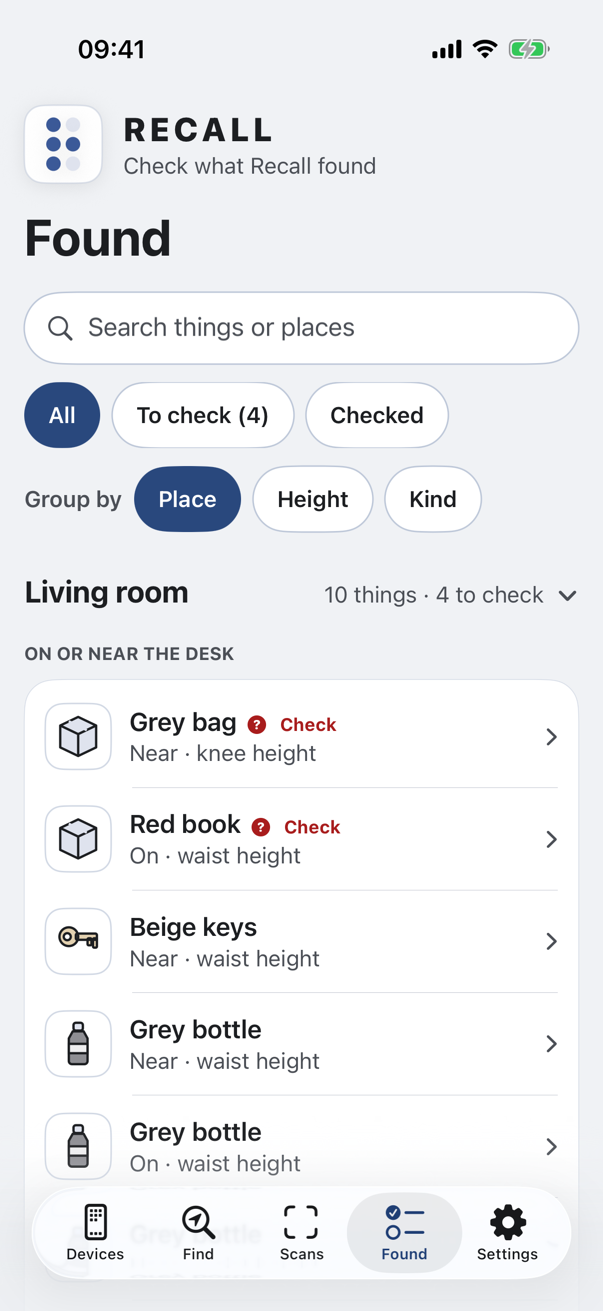
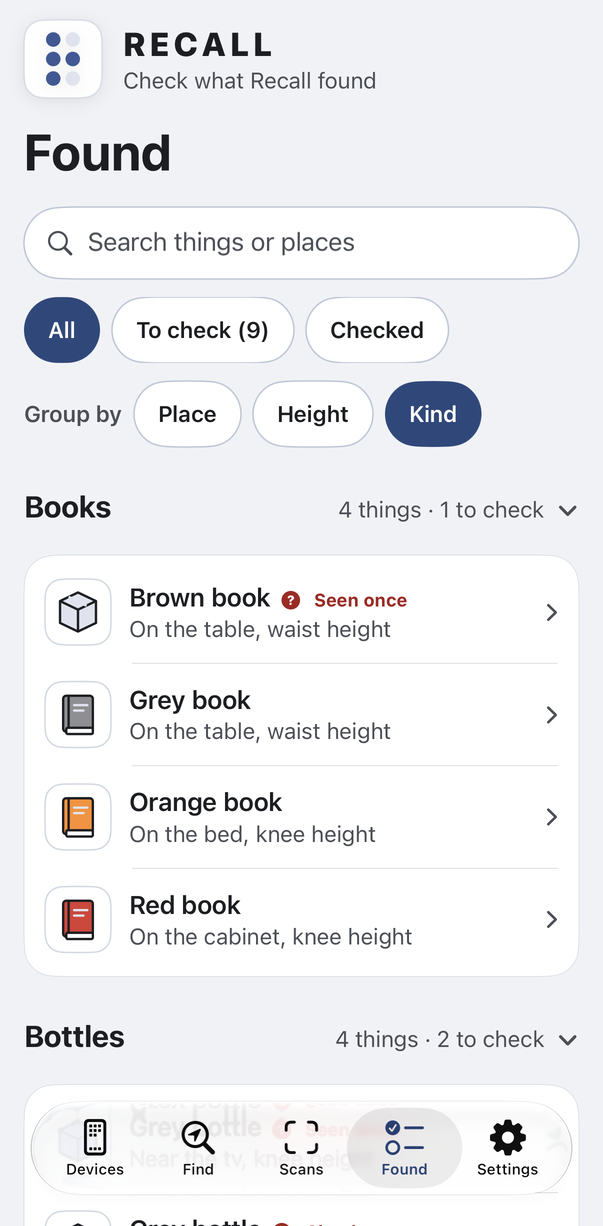
docs(readme): refresh the app screenshots
Use the real phone on the current app (20 things), and add Scans and
Devices. Settings shots stay out: they show part of the device key.

diff --git a/README.md b/README.md
@@ -134,23 +134,33 @@ recording and one frame of it, which the author reviewed and chose to publish (`
 <table>
   <tr>
     <td width="33%" align="center"><img src="docs/media/app-answer.png" width="250" alt="Find: the question 'Where are my keys?' and the answer 'Your keys are near the desk in the living room at waist height, seen on Friday at 04:21', with Take me there and Why? buttons, and the room map below"></td>
-    <td width="33%" align="center"><img src="docs/media/app-rooms.png" width="250" alt="Find: Your rooms, the Living room card with its map, 10 things as blue dots, and the list of things below"></td>
+    <td width="33%" align="center"><img src="docs/media/app-rooms.png" width="250" alt="Find: the Where is box with Speak and Ask, then Your rooms: the Living room card with its map, 20 things as blue dots, and See it in AR and Share for robots"></td>
     <td width="33%" align="center"><img src="docs/media/app-why.png" width="250" alt="Why Recall thinks so: the answer, 'Phrased by Muse Spark Open from 1 sighting, in 1.8 seconds', and the sighting: seen in the Living room scan on 30 Oct 2026, 70% sure"></td>
   </tr>
   <tr>
     <td><b>Ask.</b> Muse Spark Open picks the tools; the place comes from the 3D memory. <b>Take me there</b> walks you to it.</td>
-    <td><b>Your rooms.</b> The map MapAnything and SAM 3.1 built from one walk. Swipe between rooms; tap one to see only its things.</td>
+    <td><b>Your rooms.</b> The map MapAnything and SAM 3.1 built from one walk. Swipe between rooms; tap one to see only its things, or see them through the camera in AR.</td>
     <td><b>Why?</b> The sighting behind the answer, and which model worded it, in how long.</td>
   </tr>
   <tr>
-    <td width="33%" align="center"><img src="docs/media/app-things.png" width="250" alt="Find: Your things, the Living room, on or near the desk: grey bag, red book, beige keys, bottles, glasses and a laptop, each with a Go button"></td>
-    <td width="33%" align="center"><img src="docs/media/app-found.png" width="250" alt="Found: search, filters, group by place, height or kind; the Living room, 10 things, 4 to check, with Check marks on the unsure ones"></td>
+    <td width="33%" align="center"><img src="docs/media/app-things.png" width="250" alt="Your things: the Living room, 20 things, on or near the cabinet: keys, wallet, spectacle case, laptop, bottle, watch and book, each with its height and a Go button"></td>
+    <td width="33%" align="center"><img src="docs/media/app-found.png" width="250" alt="Found: search, All, To check and Checked filters, group by place, height or kind; books listed by kind, and a brown book marked Seen once"></td>
     <td width="33%" align="center"><img src="docs/media/app-robots.png" width="250" alt="Robot Access: the switch to share the home map with robots, off; the Living room map for robots; what robots receive and what is never shared"></td>
   </tr>
   <tr>
     <td><b>Your things.</b> By room, then the furniture they're on or near. <b>Go</b> on every row.</td>
     <td><b>Found.</b> Check what the scan found; fix a name, colour or height; the unsure ones are marked.</td>
     <td><b>Robot Access.</b> Off by default. A robot gets the map and where things are, never photos or anyone's position.</td>
+  </tr>
+  <tr>
+    <td width="33%" align="center"><img src="docs/media/app-scans.png" width="250" alt="Scans: Scan a room with a Start a scan button, then Your scans: Living room, Usable, 173 frames, processed, and a note that this walk didn't line up with the last scan, so Recall can't say what moved"></td>
+    <td width="33%" align="center"><img src="docs/media/app-devices.png" width="250" alt="Devices: Where Recall runs, with tabs for iPhone, Watch, Glasses and Robots, and the iPhone card marked Available now"></td>
+    <td width="33%"></td>
+  </tr>
+  <tr>
+    <td><b>Scans.</b> Every walk gets a quality report. When a walk doesn't line up with the last one, Recall says so rather than guessing what moved.</td>
+    <td><b>Devices.</b> iPhone is available now; Apple Watch and home robots are previews; Meta AI glasses are planned.</td>
+    <td></td>
   </tr>
 </table>
 
